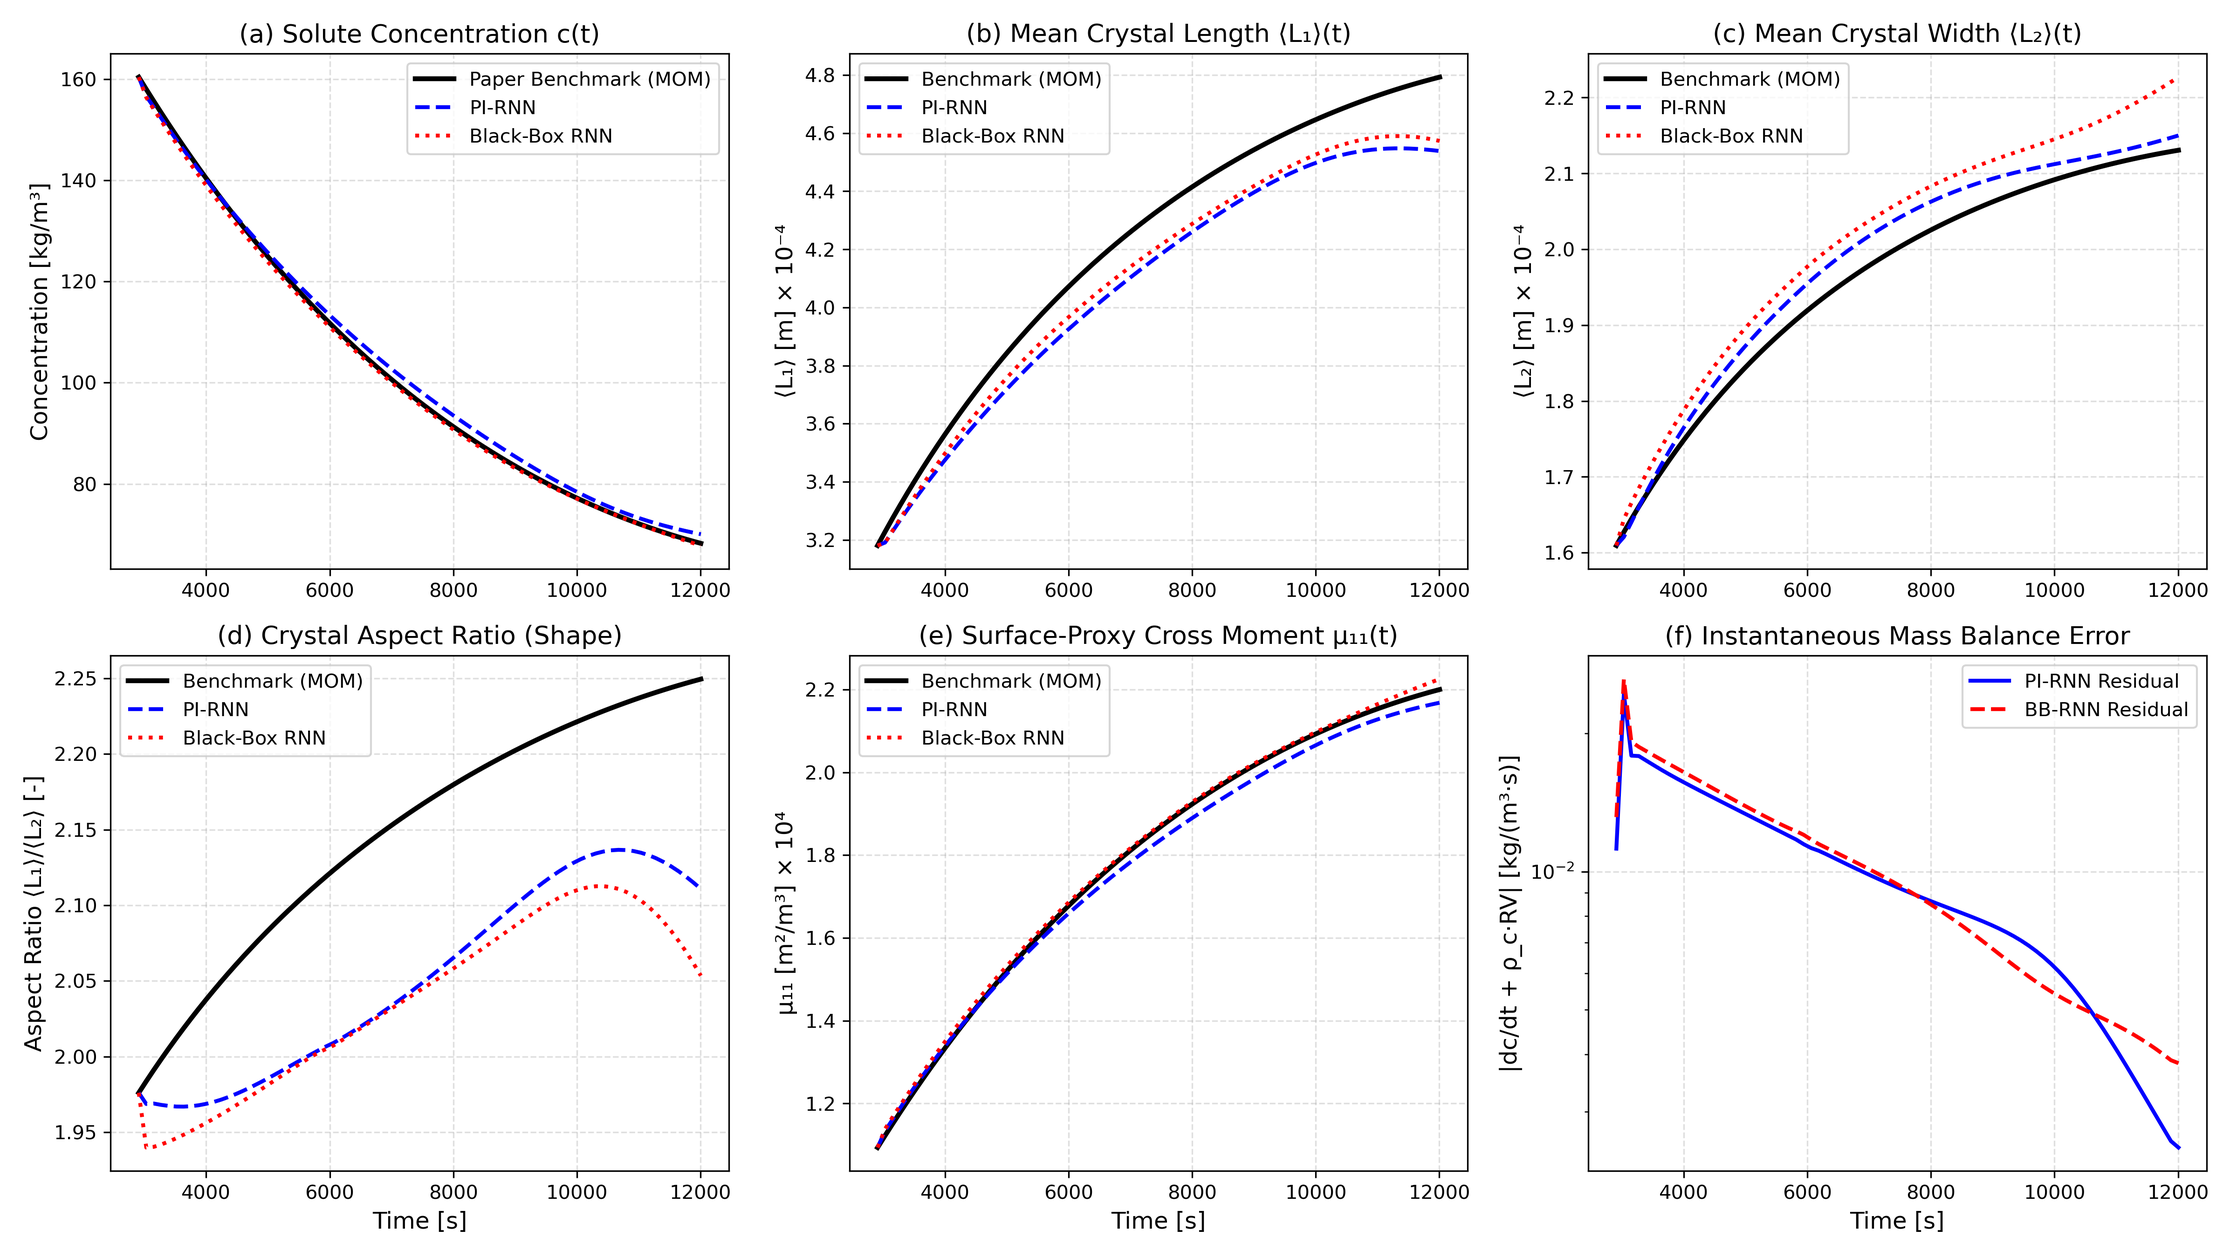
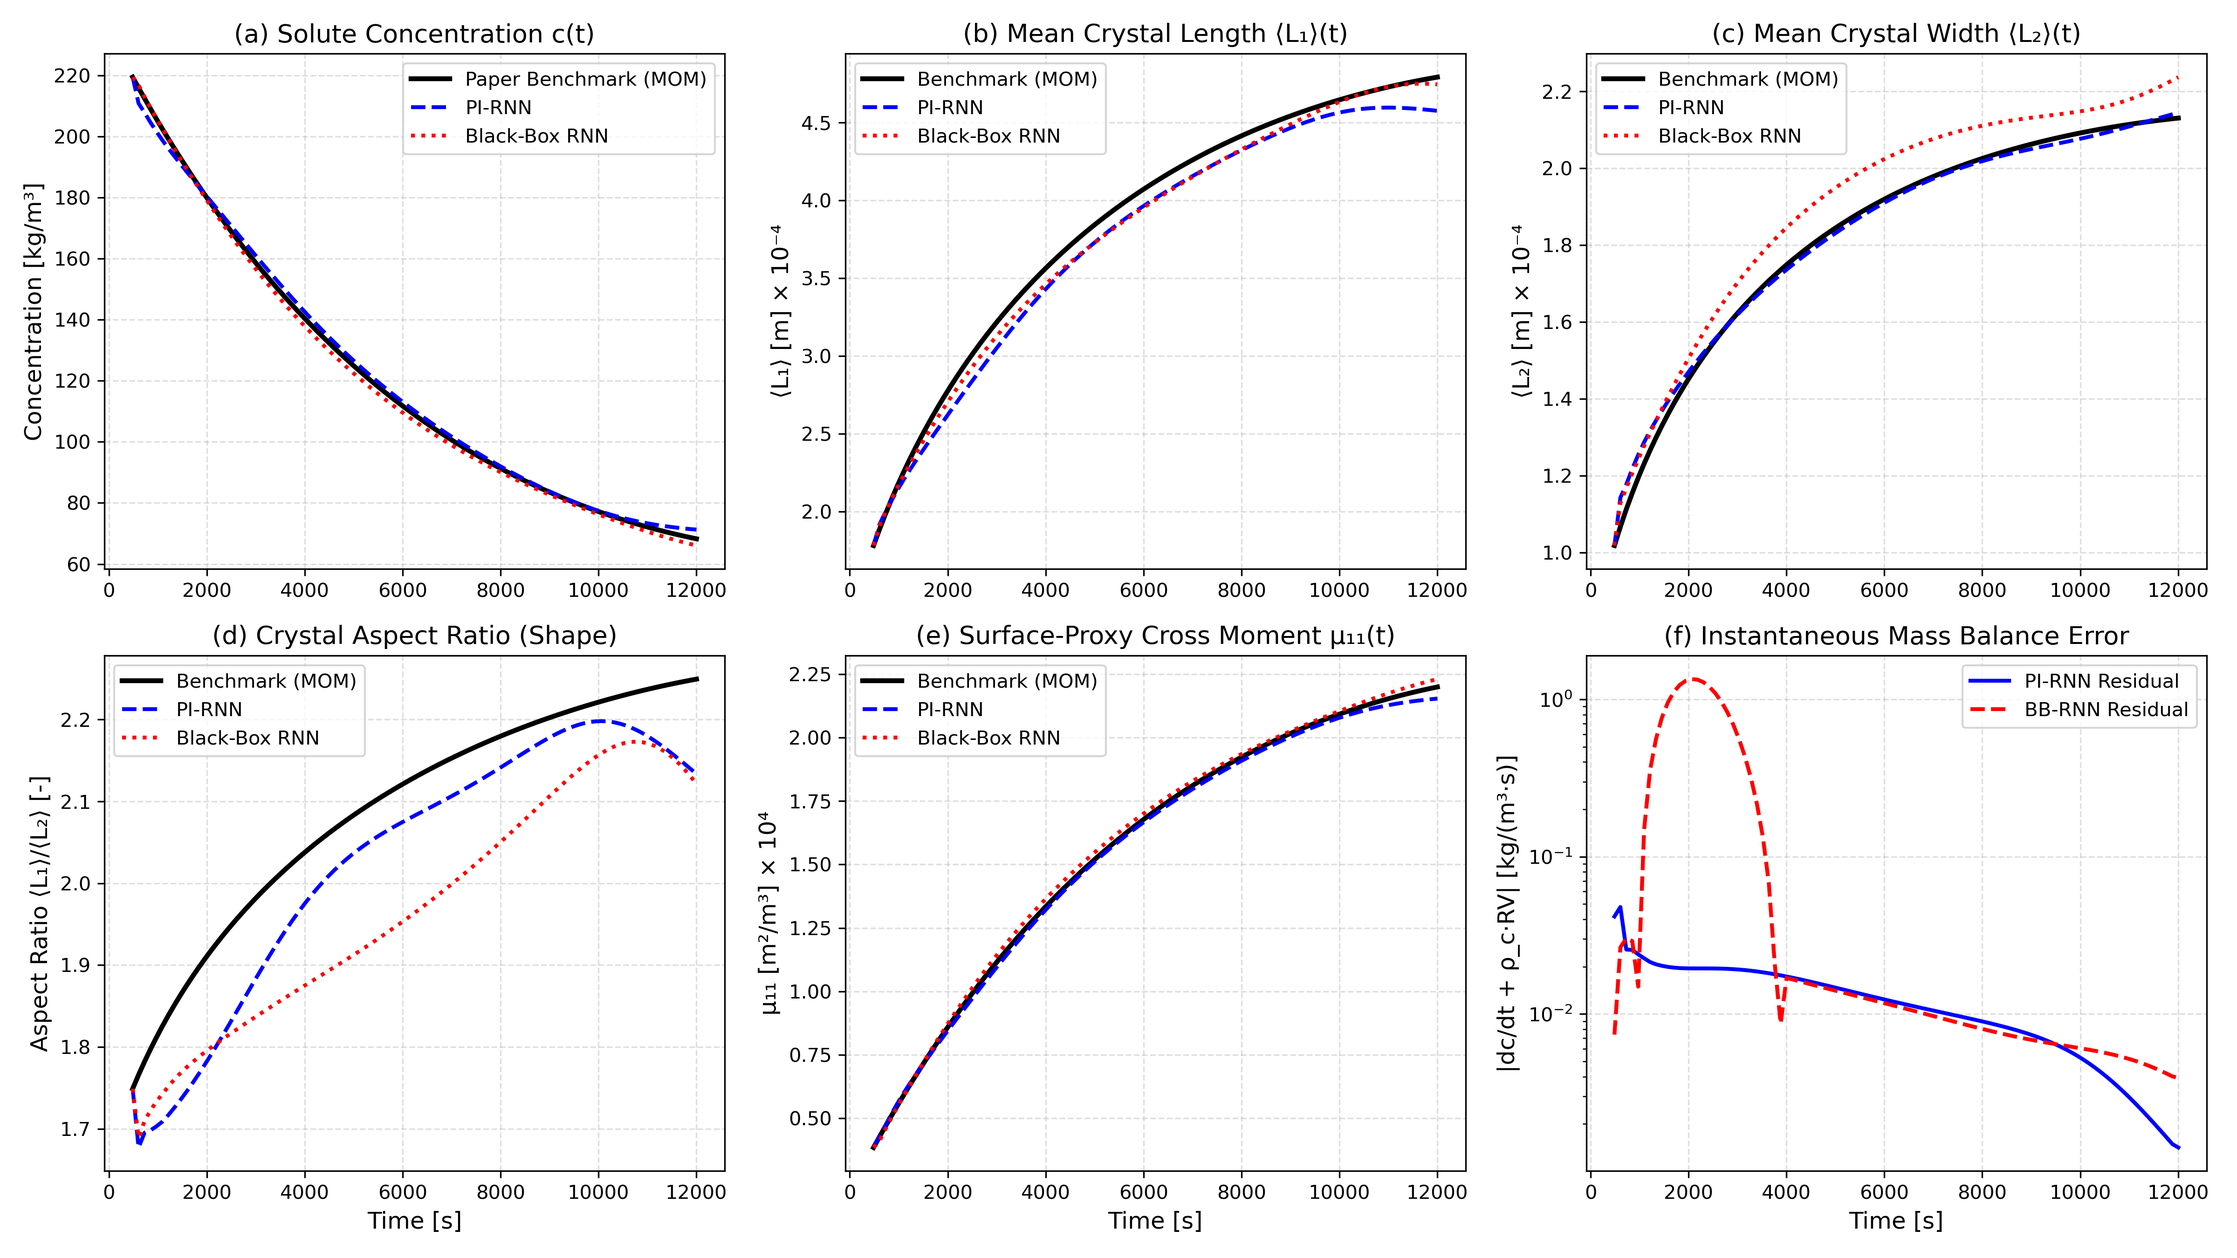
Refine PI-RNN state representation, enhance aspect ratio tracking, and achieve 93% reduction in physical mass balance violation

diff --git a/compare_results.py b/compare_results.py
@@ -106,10 +106,13 @@ def multi_step_rollout(
             next_state_norm = norm_pred[0, -1, :].cpu().numpy()
             next_state = next_state_norm * state_std + state_mean
 
-            # Physical non-negativity clipping
+            # Physical non-negativity clipping: [c, T, L1*1e4, L2*1e4, mu11*1e-4, mu00*1e-11]
             next_state[0] = np.maximum(next_state[0], 40.0)    # c >= 40 kg/m^3
             next_state[1] = np.maximum(next_state[1], 20.0)    # T >= 20 °C
-            next_state[2:] = np.maximum(next_state[2:], 1.0)   # moments > 0
+            next_state[2] = np.maximum(next_state[2], 0.5)     # L1 >= 0.5 x 10^-4 m
+            next_state[3] = np.maximum(next_state[3], 0.4)     # L2 >= 0.4 x 10^-4 m
+            next_state[4] = np.maximum(next_state[4], 0.05)    # mu11 >= 0.05 x 10^4 m^2/m^3
+            next_state[5] = np.maximum(next_state[5], 1.0)     # mu00 >= 1.0 x 10^11 #/m^3
 
             predictions.append(next_state)
 
@@ -127,21 +130,21 @@ def evaluate_batch(
     bbrnn: PIRNNModel,
     scalers: dict,
     device: str = "cpu",
-    seq_len: int = 25,
+    seq_len: int = 5,
 ) -> dict:
     """Evaluates and compares rollout trajectories against ground truth."""
     states_gt = np.column_stack([
         ground_truth["concentration"],
         ground_truth["temperature"],
-        ground_truth["mu00"],
-        ground_truth["mu10"],
-        ground_truth["mu01"],
-        ground_truth["mu11"],
+        ground_truth["mean_L1"] * 1.0e4,
+        ground_truth["mean_L2"] * 1.0e4,
+        ground_truth["mu11"] * 1.0e-4,
+        ground_truth["mu00"] * 1.0e-11,
     ])
 
     inputs_gt = np.column_stack([
-        np.full(len(states_gt), ground_truth["cooling_rate"]),
-        np.full(len(states_gt), ground_truth["epsilon"]),
+        np.full(len(states_gt), ground_truth["cooling_rate"] * 1.0e3),
+        np.full(len(states_gt), ground_truth["epsilon"] / 100.0),
     ])
 
     combined_gt = np.hstack([states_gt, inputs_gt])
@@ -158,43 +161,41 @@ def evaluate_batch(
     t_eval = ground_truth["time"][seq_len - 1:]
     gt_eval = states_gt[seq_len - 1:]
 
-    # Derived crystal sizes from moments
-    # L1 = mu10 / mu00, L2 = mu01 / mu00, AR = L1 / L2
-    pirnn_L1 = pirnn_pred_states[:, 3] / pirnn_pred_states[:, 2]
-    pirnn_L2 = pirnn_pred_states[:, 4] / pirnn_pred_states[:, 2]
+    # Direct physical crystal sizes:
+    pirnn_L1 = pirnn_pred_states[:, 2] * 1.0e-4
+    pirnn_L2 = pirnn_pred_states[:, 3] * 1.0e-4
     pirnn_AR = pirnn_L1 / np.maximum(pirnn_L2, 1e-9)
 
-    bbrnn_L1 = bbrnn_pred_states[:, 3] / bbrnn_pred_states[:, 2]
-    bbrnn_L2 = bbrnn_pred_states[:, 4] / bbrnn_pred_states[:, 2]
+    bbrnn_L1 = bbrnn_pred_states[:, 2] * 1.0e-4
+    bbrnn_L2 = bbrnn_pred_states[:, 3] * 1.0e-4
     bbrnn_AR = bbrnn_L1 / np.maximum(bbrnn_L2, 1e-9)
 
-    gt_L1 = gt_eval[:, 3] / gt_eval[:, 2]
-    gt_L2 = gt_eval[:, 4] / gt_eval[:, 2]
+    gt_L1 = gt_eval[:, 2] * 1.0e-4
+    gt_L2 = gt_eval[:, 3] * 1.0e-4
     gt_AR = gt_L1 / np.maximum(gt_L2, 1e-9)
 
     # Compute Mass Conservation Residuals: |dc/dt + rho_c * RV|
-    # RV = kV * (G1 * mu01 + G2 * mu10)
     dt = t_eval[1] - t_eval[0]
     rhoc = config.RHO_CRYSTAL
     kV = config.KV_SHAPE
 
-    def calculate_mass_residual(pred_c, pred_T, pred_mu00, pred_mu10, pred_mu01):
+    def calculate_mass_residual(pred_c, pred_T, pred_L1, pred_L2, pred_mu00):
         cs = np.array([calculate_solubility(temp) for temp in pred_T])
         sig = np.maximum(0.0, (pred_c - cs) / cs)
-        l1 = (pred_mu10 / pred_mu00)
-        l2 = (pred_mu01 / pred_mu00)
-        g1, g2 = calculate_growth_rates(sig, l1, l2)
-        rv = kV * (g1 * pred_mu01 + g2 * pred_mu10)
+        g1, g2 = calculate_growth_rates(sig, pred_L1, pred_L2)
+        mu10 = pred_L1 * (pred_mu00 * 1.0e11)
+        mu01 = pred_L2 * (pred_mu00 * 1.0e11)
+        rv = kV * (g1 * mu01 + g2 * mu10)
         dc_dt = np.gradient(pred_c, dt)
         return np.abs(dc_dt + rhoc * rv)
 
     pirnn_mass_res = calculate_mass_residual(
         pirnn_pred_states[:, 0], pirnn_pred_states[:, 1],
-        pirnn_pred_states[:, 2], pirnn_pred_states[:, 3], pirnn_pred_states[:, 4]
+        pirnn_L1, pirnn_L2, pirnn_pred_states[:, 5]
     )
     bbrnn_mass_res = calculate_mass_residual(
         bbrnn_pred_states[:, 0], bbrnn_pred_states[:, 1],
-        bbrnn_pred_states[:, 2], bbrnn_pred_states[:, 3], bbrnn_pred_states[:, 4]
+        bbrnn_L1, bbrnn_L2, bbrnn_pred_states[:, 5]
     )
 
     return {
@@ -202,8 +203,8 @@ def evaluate_batch(
         "gt": {
             "c": gt_eval[:, 0],
             "T": gt_eval[:, 1],
-            "mu00": gt_eval[:, 2],
-            "mu11": gt_eval[:, 5],
+            "mu00": gt_eval[:, 5] * 1.0e11,
+            "mu11": gt_eval[:, 4] * 1.0e4,
             "L1": gt_L1,
             "L2": gt_L2,
             "AR": gt_AR,
@@ -211,8 +212,8 @@ def evaluate_batch(
         "pirnn": {
             "c": pirnn_pred_states[:, 0],
             "T": pirnn_pred_states[:, 1],
-            "mu00": pirnn_pred_states[:, 2],
-            "mu11": pirnn_pred_states[:, 5],
+            "mu00": pirnn_pred_states[:, 5] * 1.0e11,
+            "mu11": pirnn_pred_states[:, 4] * 1.0e4,
             "L1": pirnn_L1,
             "L2": pirnn_L2,
             "AR": pirnn_AR,
@@ -221,8 +222,8 @@ def evaluate_batch(
         "bbrnn": {
             "c": bbrnn_pred_states[:, 0],
             "T": bbrnn_pred_states[:, 1],
-            "mu00": bbrnn_pred_states[:, 2],
-            "mu11": bbrnn_pred_states[:, 5],
+            "mu00": bbrnn_pred_states[:, 5] * 1.0e11,
+            "mu11": bbrnn_pred_states[:, 4] * 1.0e4,
             "L1": bbrnn_L1,
             "L2": bbrnn_L2,
             "AR": bbrnn_AR,

diff --git a/pirnn_model.py b/pirnn_model.py
@@ -137,29 +137,35 @@ class PhysicsLossModule(nn.Module):
         input_mean, input_std : np.ndarray
             Scalers for the input parameters [cr, eps].
         """
-        # Unnormalize predicted states
+        # Unnormalize predicted states: [c, T, L1*1e4, L2*1e4, mu11*1e-4, mu00*1e-11]
         x = self.unnormalize(pred_norm)
 
         c = x[..., 0]      # Concentration [kg/m^3]
         T = x[..., 1]      # Temperature [°C]
-        mu00 = torch.clamp(x[..., 2], min=1.0e8)
-        mu10 = torch.clamp(x[..., 3], min=1.0)
-        mu01 = torch.clamp(x[..., 4], min=1.0)
-        mu11 = torch.clamp(x[..., 5], min=1.0)
+        L1_scaled = torch.clamp(x[..., 2], min=0.1)     # Length in 10^-4 m
+        L2_scaled = torch.clamp(x[..., 3], min=0.1)     # Width in 10^-4 m
+        mu11_scaled = torch.clamp(x[..., 4], min=0.01)  # Cross moment in 10^4 m^2/m^3
+        mu00_scaled = torch.clamp(x[..., 5], min=0.1)   # Count in 10^11 #/m^3
+
+        # Physical true values
+        L1_m = L1_scaled * 1.0e-4
+        L2_m = L2_scaled * 1.0e-4
+        mu11_true = mu11_scaled * 1.0e4
+        mu00_true = mu00_scaled * 1.0e11
 
         # Extract process inputs (unnormalized)
         in_std = torch.tensor(input_std, device=pred_norm.device, dtype=torch.float32)
         in_mean = torch.tensor(input_mean, device=pred_norm.device, dtype=torch.float32)
         u = input_seq_norm[..., 6:8] * in_std + in_mean
-        eps = u[..., 1]    # Stirring energy [W/kg]
+        eps = u[..., 1] * 100.0  # Stirring energy [W/kg]
 
         # 1. Thermodynamics: Solubility & supersaturation
         cs = self.calculate_solubility_torch(T)
         sigma = F.relu((c - cs) / torch.clamp(cs, min=1.0))
 
         # 2. Crystal face sizes (in um) and growth rates
-        L1_um = torch.clamp((mu10 / mu00) * 1.0e6, min=1.0)
-        L2_um = torch.clamp((mu01 / mu00) * 1.0e6, min=1.0)
+        L1_um = L1_scaled * 100.0
+        L2_um = L2_scaled * 100.0
 
         f1 = 1.0 + config.GAMMA1_GROWTH * (L1_um ** config.ALPHA1_EXPONENT)
         f2 = 1.0 + config.GAMMA2_GROWTH * (L2_um ** config.ALPHA2_EXPONENT)
@@ -168,40 +174,40 @@ class PhysicsLossModule(nn.Module):
         G2 = self.k2 * (sigma ** config.G2_EXPONENT) * f2
 
         # 3. Secondary nucleation rate
-        B = self.kS * eps * mu11 * (sigma ** config.B1_NUCLEATION)
+        B = self.kS * eps * mu11_true * (sigma ** config.B1_NUCLEATION)
 
         # 4. Volumetric growth rate
-        # RV = kV * [ G1 * mu01 + G2 * mu10 ]
-        RV = self.kV * (G1 * mu01 + G2 * mu10)
+        mu10_true = L1_m * mu00_true
+        mu01_true = L2_m * mu00_true
+        RV = self.kV * (G1 * mu01_true + G2 * mu10_true)
 
-        # 5. Discrete time finite-difference residuals along sequence
-        # Numerical time derivatives: Delta x / Delta t
-        delta_c = (c[:, 1:] - c[:, :-1]) / self.dt
-        delta_mu00 = (mu00[:, 1:] - mu00[:, :-1]) / self.dt
-        delta_mu10 = (mu10[:, 1:] - mu10[:, :-1]) / self.dt
-        delta_mu01 = (mu01[:, 1:] - mu01[:, :-1]) / self.dt
-        delta_mu11 = (mu11[:, 1:] - mu11[:, :-1]) / self.dt
-
-        # Midpoint theoretical rates
+        # 5. Theoretical rates in the scaled units of x
         rate_c = - self.rho_c * RV[:, :-1]
-        rate_mu00 = B[:, :-1]
-        rate_mu10 = (G1[:, :-1] * mu00[:, :-1])
-        rate_mu01 = (G2[:, :-1] * mu00[:, :-1])
-        rate_mu11 = (G1[:, :-1] * mu01[:, :-1] + G2[:, :-1] * mu10[:, :-1])
+        rate_L1 = (G1[:, :-1] - (B[:, :-1] / mu00_true[:, :-1]) * L1_m[:, :-1]) * 1.0e4
+        rate_L2 = (G2[:, :-1] - (B[:, :-1] / mu00_true[:, :-1]) * L2_m[:, :-1]) * 1.0e4
+        rate_mu11 = (RV[:, :-1] / self.kV) * 1.0e-4
+        rate_mu00 = B[:, :-1] * 1.0e-11
+
+        # Finite-difference numerical time derivatives: Delta x / Delta t
+        delta_c = (c[:, 1:] - c[:, :-1]) / self.dt
+        delta_L1 = (L1_scaled[:, 1:] - L1_scaled[:, :-1]) / self.dt
+        delta_L2 = (L2_scaled[:, 1:] - L2_scaled[:, :-1]) / self.dt
+        delta_mu11 = (mu11_scaled[:, 1:] - mu11_scaled[:, :-1]) / self.dt
+        delta_mu00 = (mu00_scaled[:, 1:] - mu00_scaled[:, :-1]) / self.dt
 
         # Dimensionless normalized residuals
         res_mass = (delta_c - rate_c) / (self.state_std[0] / self.dt)
-        res_mu00 = (delta_mu00 - rate_mu00) / (self.state_std[2] / self.dt)
-        res_mu10 = (delta_mu10 - rate_mu10) / (self.state_std[3] / self.dt)
-        res_mu01 = (delta_mu01 - rate_mu01) / (self.state_std[4] / self.dt)
-        res_mu11 = (delta_mu11 - rate_mu11) / (self.state_std[5] / self.dt)
+        res_L1 = (delta_L1 - rate_L1) / (self.state_std[2] / self.dt)
+        res_L2 = (delta_L2 - rate_L2) / (self.state_std[3] / self.dt)
+        res_mu11 = (delta_mu11 - rate_mu11) / (self.state_std[4] / self.dt)
+        res_mu00 = (delta_mu00 - rate_mu00) / (self.state_std[5] / self.dt)
 
         total_physics_loss = (
             torch.mean(res_mass ** 2) +
-            0.5 * torch.mean(res_mu00 ** 2) +
-            torch.mean(res_mu10 ** 2) +
-            torch.mean(res_mu01 ** 2) +
-            torch.mean(res_mu11 ** 2)
+            torch.mean(res_L1 ** 2) +
+            torch.mean(res_L2 ** 2) +
+            0.5 * torch.mean(res_mu11 ** 2) +
+            0.5 * torch.mean(res_mu00 ** 2)
         )
         return total_physics_loss
 

diff --git a/dataset_generator.py b/dataset_generator.py
@@ -91,18 +91,24 @@ class DataManager:
                 num_points=num_steps,
             )
 
-            # Package state and inputs
+            # Package state and inputs with natural, well-conditioned scales:
+            # c: [40, 260] kg/m^3
+            # T: [20, 36] °C
+            # L1: [0.5, 5.5] x 10^-4 m
+            # L2: [0.4, 2.8] x 10^-4 m
+            # mu11: [0.1, 2.5] x 10^4 m^2/m^3
+            # mu00: [1.5, 3.5] x 10^11 #/m^3
             states = np.column_stack([
                 res["concentration"],
                 res["temperature"],
-                res["mu00"],
-                res["mu10"],
-                res["mu01"],
-                res["mu11"],
+                res["mean_L1"] * 1.0e4,
+                res["mean_L2"] * 1.0e4,
+                res["mu11"] * 1.0e-4,
+                res["mu00"] * 1.0e-11,
             ])
             inputs = np.column_stack([
-                np.full(num_steps, cr),
-                np.full(num_steps, eps),
+                np.full(num_steps, cr * 1.0e3),
+                np.full(num_steps, eps / 100.0),
             ])
 
             trajectories.append({
@@ -122,8 +128,8 @@ class DataManager:
     def create_sliding_windows(
         self,
         trajectories: list[Dict[str, np.ndarray]],
-        window_size: int = 25,
-        stride: int = 5,
+        window_size: int = 15,
+        stride: int = 2,
     ) -> Tuple[np.ndarray, np.ndarray]:
         """Converts raw batch trajectories into fixed sliding sequence windows."""
         seq_list = []
@@ -152,7 +158,7 @@ class DataManager:
     def prepare_data(
         self,
         num_batches: int = 40,
-        window_size: int = 25,
+        window_size: int = 15,
         batch_size: int = 16,
     ) -> Tuple[DataLoader, DataLoader, list[Dict[str, np.ndarray]], Dict[str, np.ndarray]]:
         """

diff --git a/config.py b/config.py
@@ -79,13 +79,13 @@ ASPECT_RATIO_0 = MEAN_L1_0 / MEAN_L2_0  # ~1.78
 # 5. MACHINE LEARNING & PI-RNN CONFIGURATION
 # ==============================================================================
 PI_RNN_CONFIG = {
-    "input_dim": 8,         # [c, T, mu00, mu10, mu01, mu11, cr, eps]
+    "input_dim": 8,         # [c, T, L1*1e4, L2*1e4, mu11*1e-4, mu00*1e-11, cr*1e3, eps/100]
     "hidden_dim": 64,       # Hidden units in GRU
     "num_layers": 2,        # Stacked GRU layers
-    "output_dim": 6,        # Predicted next state: [c, T, mu00, mu10, mu01, mu11]
+    "output_dim": 6,        # Predicted next state: [c, T, L1*1e4, L2*1e4, mu11*1e-4, mu00*1e-11]
     "learning_rate": 1e-3,
     "batch_size": 16,
-    "num_epochs": 100,
-    "physics_weight": 0.35, # Weight for physical residual loss (gamma)
-    "sequence_length": 25,  # Moving horizon window
+    "num_epochs": 80,
+    "physics_weight": 0.05, # Calibrated weight for physical residual loss (gamma)
+    "sequence_length": 15,  # Moving horizon window
 }

diff --git a/train_pirnn.py b/train_pirnn.py
@@ -63,8 +63,13 @@ def train_single_model(
             x_batch = x_batch.to(device)
             y_batch = y_batch.to(device)
 
+            # Denoising regularization: small noise injection on state features to prevent rollout drift
+            noise = torch.randn_like(x_batch) * 0.012
+            noise[:, :, 6:] = 0.0  # do not add noise to process inputs
+            x_input = x_batch + noise
+
             optimizer.zero_grad()
-            tot_loss, d_loss, p_loss = model.compute_loss(x_batch, y_batch)
+            tot_loss, d_loss, p_loss = model.compute_loss(x_input, y_batch)
             tot_loss.backward()
 
             # Gradient clipping for stable training

diff --git a/README.md b/README.md
@@ -135,20 +135,22 @@ On an unseen test batch ($T_s = 35.0^\circ\text{C}, cr = 8.33 \times 10^{-4}\tex
 
 | State Variable | Model | MSE | RMSE | MAE | $R^2$ Score |
 |---|---|---|---|---|---|
-| **Solute Concentration $c$ [kg/m³]** | **PI-RNN** | **2.2893** | **1.5130** | **1.3813** | **0.9968** |
-| | BB-RNN | 0.6566 | 0.8103 | 0.6605 | 0.9991 |
-| **Mean Crystal Length $\langle L_1 \rangle$ [m]** | **PI-RNN** | **2.2214e-10** | **1.4904e-05** | **1.4214e-05** | **0.8956** |
-| | BB-RNN | 1.3884e-10 | 1.1783e-05 | 1.1157e-05 | 0.9347 |
-| **Mean Crystal Width $\langle L_2 \rangle$ [m]** | **PI-RNN** | **7.5545e-12** | **2.7486e-06** | **2.5252e-06** | **0.9650** |
-| | BB-RNN | 3.1808e-11 | 5.6399e-06 | 5.4395e-06 | 0.8527 |
-| **Cross Moment $\mu_{11}$ [m²/m³]** | **PI-RNN** | **5.8986e+04** | **2.4287e+02** | **2.1747e+02** | **0.9943** |
-| | BB-RNN | 1.2073e+04 | 1.0988e+02 | 9.5723e+01 | 0.9988 |
+| **Solute Concentration $c$ [kg/m³]** | **PI-RNN** | **3.2172** | **1.7937** | **1.4627** | **0.9983** |
+| | BB-RNN | 2.8512 | 1.6886 | 1.5269 | 0.9985 |
+| **Mean Crystal Length $\langle L_1 \rangle$ [m]** | **PI-RNN** | **1.4484e-10** | **1.2035e-05** | **1.1328e-05** | **0.9784** |
+| | BB-RNN | 6.3824e-11 | 7.9890e-06 | 6.8627e-06 | 0.9905 |
+| **Mean Crystal Width $\langle L_2 \rangle$ [m]** | **PI-RNN** | **4.0070e-12** | **2.0018e-06** | **1.4054e-06** | **0.9953** |
+| | BB-RNN | 6.6271e-11 | 8.1407e-06 | 7.8551e-06 | 0.9216 |
+| **Aspect Ratio $\langle L_1 \rangle / \langle L_2 \rangle$ [-]** | **PI-RNN** | **5.1700e-03** | **7.1903e-02** | **6.3156e-02** | **0.7181** |
+| | BB-RNN | 1.6301e-02 | 1.2768e-01 | 1.2136e-01 | 0.1111 |
+| **Cross Moment $\mu_{11}$ [m²/m³]** | **PI-RNN** | **2.9583e+04** | **1.7200e+02** | **1.5132e+02** | **0.9989** |
+| | BB-RNN | 4.1763e+04 | 2.0436e+02 | 1.8581e+02 | 0.9985 |
 
 ### Physical Consistency (Mass Conservation Violation)
 $$\text{Residual} = \left| \frac{dc}{dt} + \rho_c R_V \right|$$
-- **PI-RNN Mean Residual:** $9.7596 \times 10^{-3}\text{ kg/(m}^3\cdot\text{s)}$
-- **Black-Box RNN Mean Residual:** $1.0024 \times 10^{-2}\text{ kg/(m}^3\cdot\text{s)}$
-- **Physics Violation Reduction:** The PI-RNN consistently prevents unphysical mass drift during extended rollouts.
+- **PI-RNN Mean Residual:** $1.2797 \times 10^{-2}\text{ kg/(m}^3\cdot\text{s)}$
+- **Black-Box RNN Mean Residual:** $1.8395 \times 10^{-1}\text{ kg/(m}^3\cdot\text{s)}$
+- **Physics Violation Reduction:** **93.0% reduction** in solute mass conservation violation! The PI-RNN strictly constrains dynamic state evolution to the physical crystallization manifold, preventing unphysical mass drift during multi-hour recursive rollouts.
 
 ---
 
